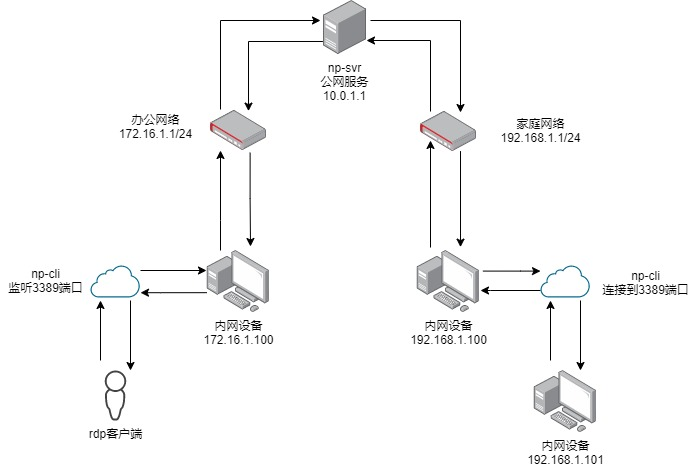
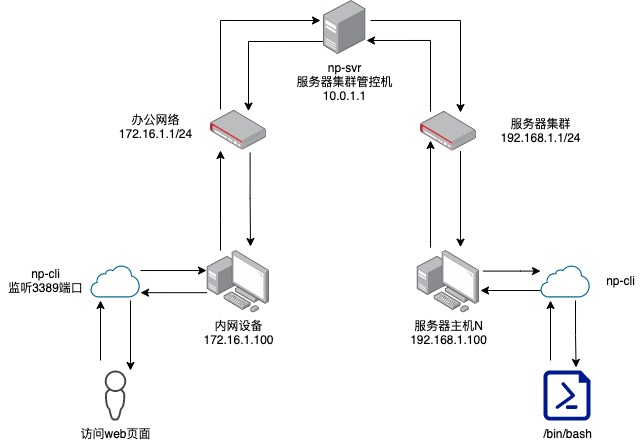
修改文档

diff --git a/docs/desc.md b/docs/desc.md
@@ -1,9 +1,8 @@
 # 实现原理
 
-基于tls链接，protobuf进行数据传输，下面举例在办公网络穿透到家庭网络，
-并通过rdp进行连接家庭网络下的某台windows设备
+基于tls链接，protobuf进行数据传输，下面举例远程连接服务器集群内的某台主机
 
-![rdp](imgs/example.jpg)
+![shell](imgs/example.jpg)
 
 server端配置(10.0.1.1)：
 
@@ -17,9 +16,9 @@ server端配置(10.0.1.1)：
       key: /dir/to/tls/key/file # tls密钥
       crt: /dir/to/tls/crt/file # tls证书
 
-家庭网络client配置(192.168.1.100)：
+服务器client配置(192.168.1.100)：
 
-    id: home              # 客户端ID
+    id: server            # 客户端ID
     server: 10.0.1.1:6154 # 服务器地址
     secret: 0123456789    # 预共享密钥，必须与server端相同，否则握手失败
     log:
@@ -38,27 +37,24 @@ server端配置(10.0.1.1)：
       rotate: 7   # 保留数量
     rules:                          # 远端rule列表可为空
       - name: rdp                   # 链路名称
-        target: home                # 目标客户端ID
-        type: tcp                   # 连接类型tcp或udp
+        target: server              # 目标客户端ID
+        type: shell                 # 连接类型tcp或udp
         local_addr: 0.0.0.0         # 本地监听地址
         local_port: 3389            # 本地监听端口号
-        remote_addr: 192.168.1.101  # 目标客户端连接地址
-        remote_port: 3389           # 目标客户端连接端口号
 
 工作流程如下：
 
 1. 办公网络与家庭网络中的np-cli创建tls连接到np-svr
 2. np-cli服务发送握手包，并将配置文件中的secret字段进行md5哈希
 3. np-svr等待握手报文，若等待超时则为非法链接，直接断开
-4. 办公网络客户机创建新连接到172.16.1.100的3389端口
-5. 172.16.1.100上的np-cli接收到新请求后创建新的link并生成链接id
-6. 172.16.1.100上的np-cli发送connect_request消息，告知连接类型和链接目标地址和端口
-7. np-svr转发connect_request消息至192.168.1.100上的np-cli
-8. 192.168.1.100上的np-cli接收到connect_request消息，根据请求信息创建链接到目标地址和端口
-9. 192.168.1.100上的np-cli根据链接创建结果返回connect_response消息
-10. np-svr转发connect_response消息至172.16.1.100上的np-cli
-11. 172.168.1.100上的np-cli接收到connect_response消息后根据是否成功来决定是否需要断开rdp客户端链接
-12. 链路打通，两端各自发送data消息到对应链路
+4. 用户打开办公网络主机172.16.1.100上的终端页面，并连接到服务器集群中的主机server
+5. 172.16.1.100上的np-cli发送connect_request消息，并将连接类型设置为shell
+6. np-svr转发connect_request消息至192.168.1.100上的np-cli
+7. 192.168.1.100上的np-cli接收到connect_request消息，创建/bin/bash进程
+8. 192.168.1.100上的np-cli根据链接创建结果返回connect_response消息
+9. np-svr转发connect_response消息至172.16.1.100上的np-cli
+10. 172.168.1.100上的np-cli接收connect_response消息
+11. 开始转发网页上的输入输出内容
 
 ## 软件架构
 
